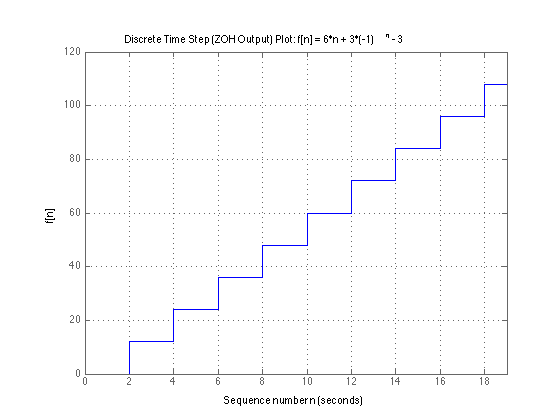
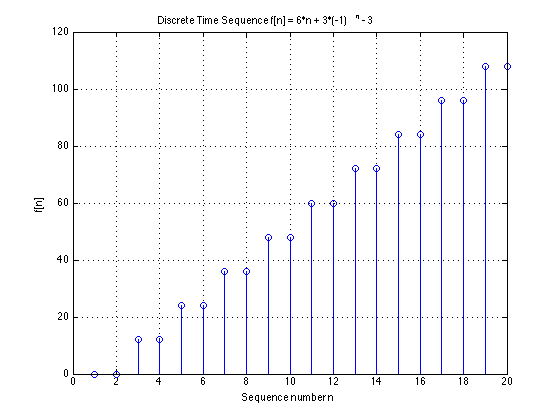
Text for i-z-transform notes complete

diff --git a/week10/matlab/example3.m b/week10/matlab/example3.m
@@ -1,0 +1,38 @@
+%% Example 2 from Session on Inverse Z-Transform
+%
+% PFE for a z-transfer function when there are repeated poles.
+% 
+% Prepared for EG-247 Signals and Systems
+% by Dr Chris P. Jobling
+%
+%% Problem
+%
+% Use the partial fraction expansion to compute the inverse z-transform of
+% 
+% $$F(z) = \frac{z + 1}{(z-1)(z^2 + 2z + 2)}$$
+%
+%% Solution
+%
+syms z n
+Fz = (z + 1)/((z - 1)*(z^2 + 2*z + 2))
+fn = iztrans(Fz)
+pretty(fn)
+%%
+iztrans(fn)
+Fz = simple(Fz)
+% inverse z-transform
+%% Plot Sequence
+den = sym2poly(collect((z + 1)*(z - 1)^2));
+num = [12, 0];
+n = 1:15;
+fn = dimpulse(num,den,20);
+%% Plot
+stem(fn),grid
+title('Discrete Time Sequence f[n] = 6*n + 3*(-1)^n - 3');
+ylabel('f[n]')
+xlabel('Sequence number n')
+%% Also plots impulse response
+dimpulse(num,den,20), grid
+title('Discrete Time Step (ZOH Output) Plot: f[n] = 6*n + 3*(-1)^n - 3');
+ylabel('f[n]')
+xlabel('Sequence number n')
